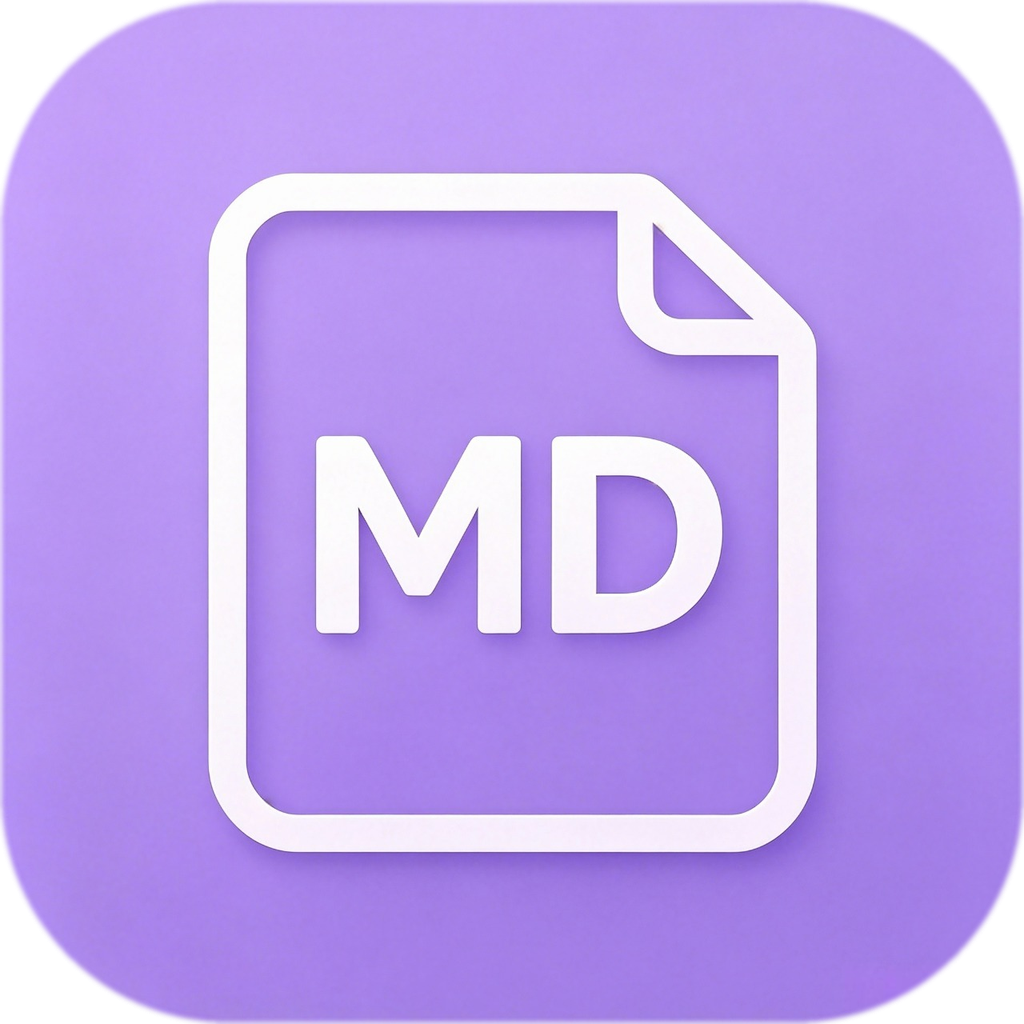
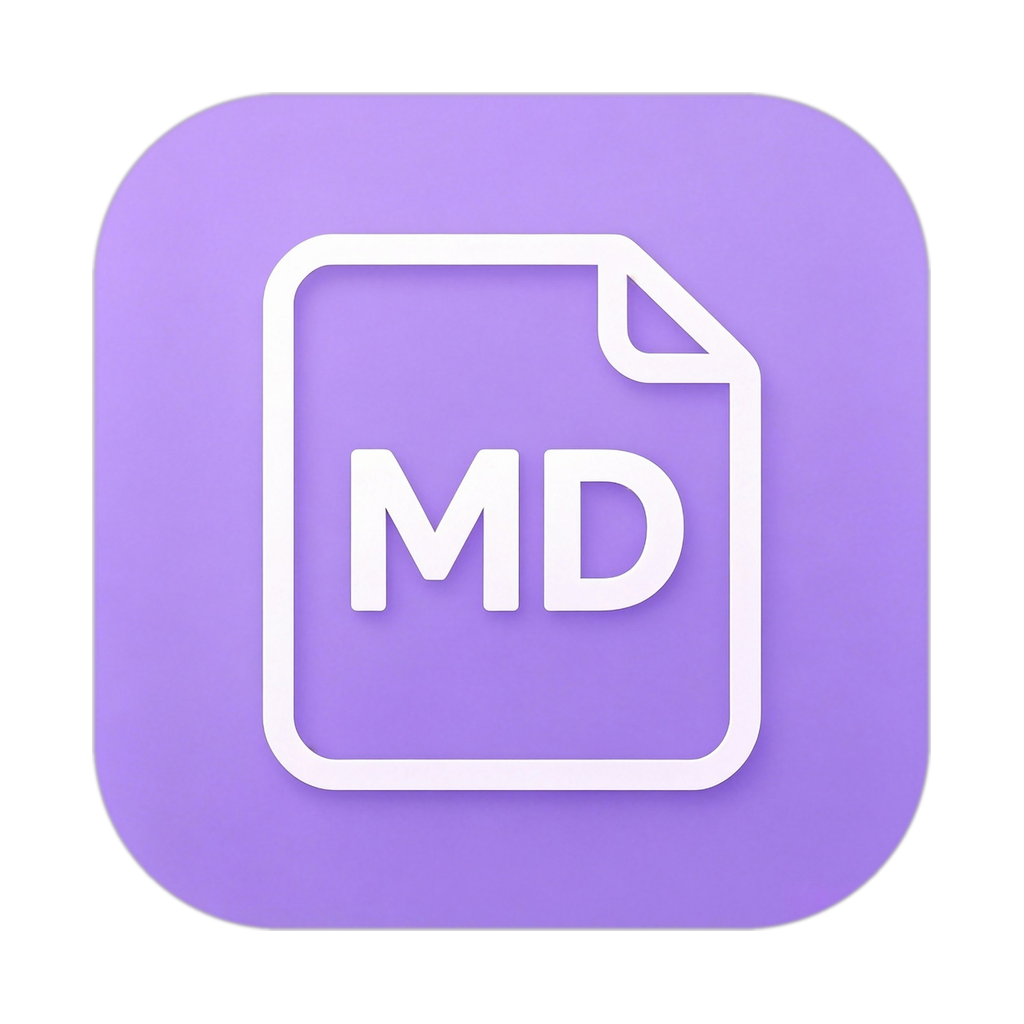
fix: 优化应用图标尺寸与菜单说明
图标改动：
- 添加 9% 边距（内容占 82%），符合 macOS 应用图标规范
- 修复 iconset retina 文件名错误（之前是 email 占位符）
- 使用 PIL 优化 PNG 压缩（iconset 体积减少约 60%）
- icns 从 442KB → 1.4MB（包含完整 retina 尺寸）

菜单改动：
- 新增 Edit 菜单，展示查找功能快捷键（⌘F/⌘G/⇧⌘G）
- Open in Editor 改为 ⌘⇧E（避免与 Export PDF 的 ⌘E 冲突）
- 字号/栏宽菜单项添加 tooltip 说明范围

diff --git a/App/Sources/MainWindowController.swift b/App/Sources/MainWindowController.swift
@@ -63,7 +63,21 @@ final class MainWindowController: NSWindowController, NSWindowDelegate {
         fileMenu.addItem(withTitle: "Export PDF…", action: #selector(exportPDF(_:)), keyEquivalent: "e")
         fileMenu.addItem(NSMenuItem.separator())
         fileMenu.addItem(withTitle: "Reveal in Finder", action: #selector(revealInFinder(_:)), keyEquivalent: "R")
-        fileMenu.addItem(withTitle: "Open in Editor", action: #selector(openInEditor(_:)), keyEquivalent: "E")
+        let openEditor = fileMenu.addItem(withTitle: "Open in Editor", action: #selector(openInEditor(_:)), keyEquivalent: "E")
+        openEditor.keyEquivalentModifierMask = [.command, .shift]
+
+        let editMenuItem = NSMenuItem()
+        mainMenu.addItem(editMenuItem)
+        let editMenu = NSMenu(title: "Edit")
+        editMenuItem.submenu = editMenu
+        let findItem = editMenu.addItem(withTitle: "Find in Document…", action: nil, keyEquivalent: "f")
+        findItem.isEnabled = false  // JS 层处理，仅显示快捷键
+        findItem.toolTip = "Handled by reader (⌘F to open, ⌘G/⇧⌘G to navigate, Esc to close)"
+        let findNextItem = editMenu.addItem(withTitle: "Find Next", action: nil, keyEquivalent: "g")
+        findNextItem.isEnabled = false
+        let findPrevItem = editMenu.addItem(withTitle: "Find Previous", action: nil, keyEquivalent: "g")
+        findPrevItem.keyEquivalentModifierMask = [.command, .shift]
+        findPrevItem.isEnabled = false
 
         let viewMenuItem = NSMenuItem()
         mainMenu.addItem(viewMenuItem)
@@ -76,16 +90,22 @@ final class MainWindowController: NSWindowController, NSWindowDelegate {
         viewMenu.addItem(withTitle: "Theme: Sepia", action: #selector(setThemeSepia(_:)), keyEquivalent: "3")
         viewMenu.addItem(withTitle: "Theme: Green", action: #selector(setThemeGreen(_:)), keyEquivalent: "4")
         viewMenu.addItem(NSMenuItem.separator())
-        // F1：字号缩放（⌘+/⌘-/⌘0）与栏宽调整（⌥+/⌥-）。
-        viewMenu.addItem(withTitle: "Zoom In (Text)", action: #selector(zoomTextIn(_:)), keyEquivalent: "+")
-        viewMenu.addItem(withTitle: "Zoom Out (Text)", action: #selector(zoomTextOut(_:)), keyEquivalent: "-")
-        viewMenu.addItem(withTitle: "Reset Text Zoom", action: #selector(zoomTextReset(_:)), keyEquivalent: "0")
+        // 字号缩放
+        let zoomInItem = viewMenu.addItem(withTitle: "Zoom In (Text)", action: #selector(zoomTextIn(_:)), keyEquivalent: "+")
+        zoomInItem.toolTip = "Increase font size (85%–200%)"
+        let zoomOutItem = viewMenu.addItem(withTitle: "Zoom Out (Text)", action: #selector(zoomTextOut(_:)), keyEquivalent: "-")
+        zoomOutItem.toolTip = "Decrease font size (85%–200%)"
+        let zoomResetItem = viewMenu.addItem(withTitle: "Reset Text Zoom", action: #selector(zoomTextReset(_:)), keyEquivalent: "0")
+        zoomResetItem.toolTip = "Reset font size to 100%"
         viewMenu.addItem(NSMenuItem.separator())
+        // 栏宽调整
         let widen = NSMenuItem(title: "Widen Column", action: #selector(widenColumn(_:)), keyEquivalent: "+")
         widen.keyEquivalentModifierMask = [.option]
+        widen.toolTip = "Increase content width (600–1100px)"
         viewMenu.addItem(widen)
         let narrow = NSMenuItem(title: "Narrow Column", action: #selector(narrowColumn(_:)), keyEquivalent: "-")
         narrow.keyEquivalentModifierMask = [.option]
+        narrow.toolTip = "Decrease content width (600–1100px)"
         viewMenu.addItem(narrow)
 
         let windowMenuItem = NSMenuItem()

diff --git a/scripts/optimize-iconset.py b/scripts/optimize-iconset.py
@@ -1,0 +1,40 @@
+#!/usr/bin/env python3
+"""Generate optimized iconset from source PNG."""
+import sys
+from pathlib import Path
+from PIL import Image
+
+def main():
+    if len(sys.argv) < 3:
+        print(f"usage: {sys.argv[0]} <source.png> <iconset-dir>")
+        sys.exit(1)
+
+    src = Path(sys.argv[1])
+    iconset = Path(sys.argv[2])
+    iconset.mkdir(parents=True, exist_ok=True)
+
+    img = Image.open(src)
+    if img.mode != 'RGBA':
+        img = img.convert('RGBA')
+
+    sizes = [
+        (16, 'icon_16x16.png'),
+        (32, '[email redacted]'),
+        (32, 'icon_32x32.png'),
+        (64, '[email redacted]'),
+        (128, 'icon_128x128.png'),
+        (256, '[email redacted]'),
+        (256, 'icon_256x256.png'),
+        (512, '[email redacted]'),
+        (512, 'icon_512x512.png'),
+        (1024, '[email redacted]'),
+    ]
+
+    for size, name in sizes:
+        resized = img.resize((size, size), Image.Resampling.LANCZOS)
+        out = iconset / name
+        resized.save(out, 'PNG', optimize=True, compress_level=9)
+        print(f"  {name} → {out.stat().st_size // 1024}KB")
+
+if __name__ == '__main__':
+    main()